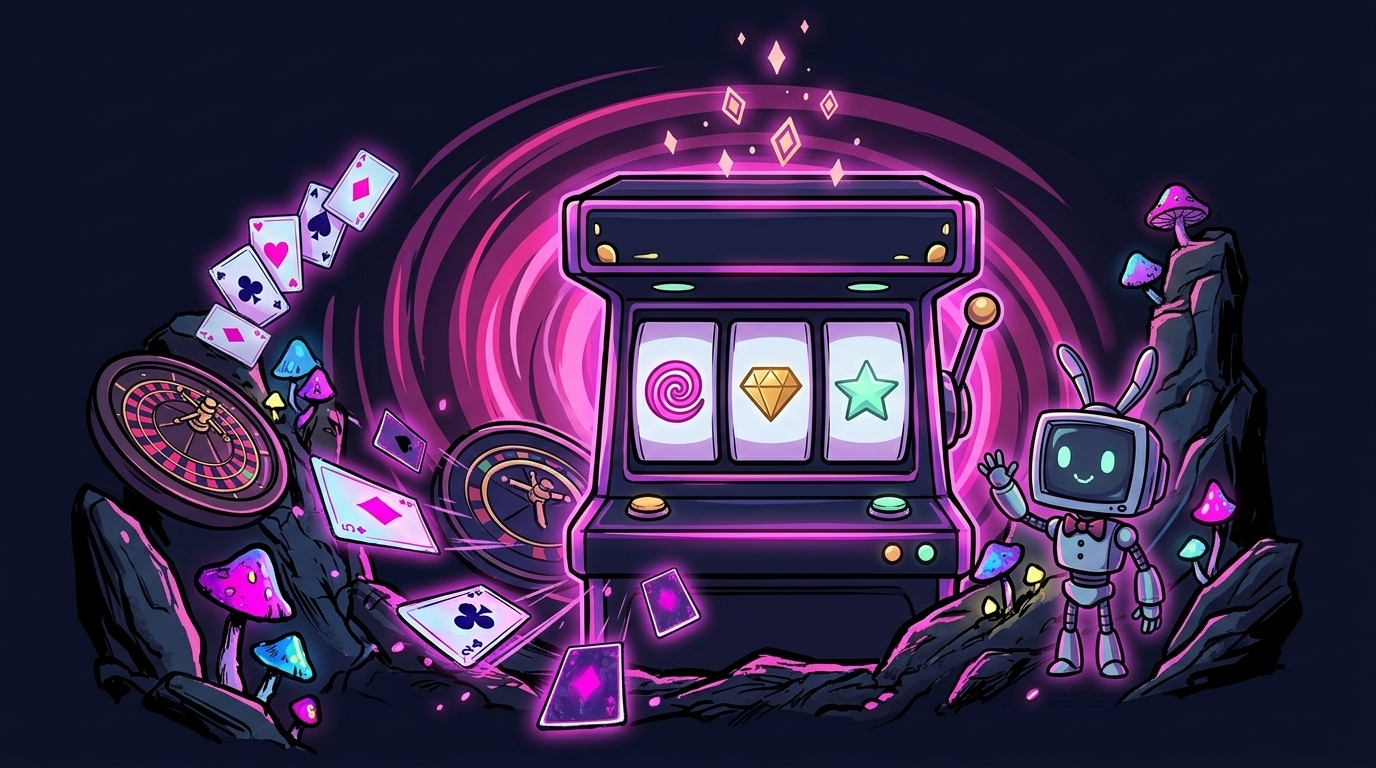
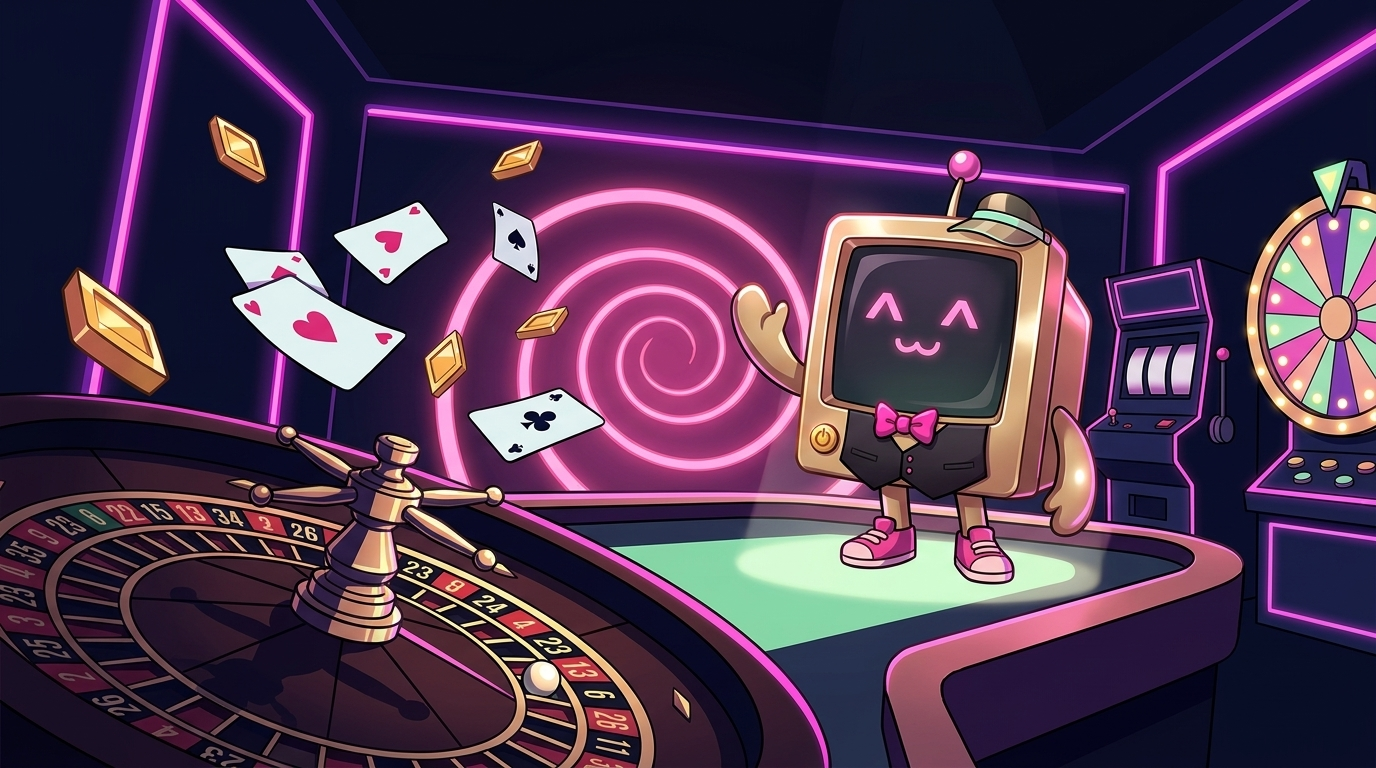
feat(wallet): the croupier EMI on the Sparkle wallet, and the showman card on the Play tab
The dashboard's Sparkle Points wallet drew EMI as a hand-made vector CRT. She is now the
Back Room's golden croupier (gold casing, dealer visor, bow tie, the counter's feather
duster) as a pixel sprite in two layers: the body, and the waving arm hinged at the
shoulder so hover still waves only the arm. Her glass is blank in the sprite and the
EmiFace renderer draws the face over it, the same way the desk and the Arcademy do.

The Play tab's Back Room card art is redrawn with the same croupier EMI: roulette in the
foreground, cards and gold diamonds in the air, the slot cabinet and prize wheel behind.

Both were generated with nano banana off the Arcademy body-idle sprite as the character
reference and keyed by a border-connected flood (no dechecker: the key was pure green).

A render test realizes the wallet on the STA harness and reads the gold casing back, so a
sprite missing from the csproj's Resource list fails the suite instead of
InitializeComponent.

Claude-Session: https://claude.ai/code/session_01BBsRaxDQB1DdjPrTpUwJrg

diff --git a/ConditioningControlPanel/Controls/SparkleWallet.xaml b/ConditioningControlPanel/Controls/SparkleWallet.xaml
@@ -22,30 +22,23 @@
             <Grid>
                 <Grid.ColumnDefinitions><ColumnDefinition Width="50"/><ColumnDefinition Width="*"/></Grid.ColumnDefinitions>
                 <Viewbox Width="48" Height="46" IsHitTestVisible="False">
-                    <!-- EMI stays planted. Only the shoulder hinge moves. -->
-                    <Canvas Width="90" Height="86">
-                        <Path Data="M29,57 L21,66 18,72" Stroke="#D99ECB" StrokeThickness="8" StrokeStartLineCap="Round" StrokeEndLineCap="Round"/>
-                        <Ellipse Canvas.Left="11" Canvas.Top="68" Width="12" Height="10" Fill="#FFE3F4"/>
-                        <Canvas x:Name="WaveArm" Width="90" Height="86">
-                            <Canvas.RenderTransform><RotateTransform x:Name="ArmTurn" CenterX="60" CenterY="56"/></Canvas.RenderTransform>
-                            <Path Data="M60,56 L70,48 73,39" Stroke="#D99ECB" StrokeThickness="8" StrokeStartLineCap="Round" StrokeEndLineCap="Round"/>
-                            <Ellipse Canvas.Left="68" Canvas.Top="28" Width="12" Height="15" Fill="#FFE3F4"/>
-                        </Canvas>
-                        <Path Data="M31,54 L58,54 65,76 Q45,83 25,76 Z" Fill="#41264F" Stroke="#CE94C9" StrokeThickness="2"/>
-                        <Path Data="M32,54 L45,72 58,54 Z" Fill="#FFF0F8"/>
-                        <Path Data="M36,57 L45,61 54,57 54,67 45,63 36,67 Z" Fill="#FF7CBB"/>
-                        <Ellipse Canvas.Left="43" Canvas.Top="68" Width="4" Height="4" Fill="#FFD580"/>
-                        <Path Data="M30,17 L23,7 M57,17 L65,7" Stroke="#D59BCF" StrokeThickness="3" StrokeStartLineCap="Round" StrokeEndLineCap="Round"/>
-                        <Ellipse Canvas.Left="19" Canvas.Top="2" Width="8" Height="8" Fill="#FF8ACB"/>
-                        <Ellipse Canvas.Left="61" Canvas.Top="2" Width="8" Height="8" Fill="#FFD580"/>
-                        <Border Canvas.Left="17" Canvas.Top="14" Width="55" Height="43" CornerRadius="13"
-                                Background="#C990CE" BorderBrush="#FBE0F6" BorderThickness="2">
-                            <Border Margin="5" CornerRadius="8" Background="#181022" BorderBrush="#7A477F" BorderThickness="1">
-                                <emi:EmiFace x:Name="MascotFace" Margin="4,3"/>
-                            </Border>
-                        </Border>
-                        <Path Data="M28,78 L26,83 37,83 M54,78 L55,83 66,83" Stroke="#B281B7" StrokeThickness="5" StrokeStartLineCap="Round" StrokeEndLineCap="Round"/>
-                    </Canvas>
+                    <!-- The croupier EMI from the Back Room's prize counter (gold casing, visor, bow tie,
+                         feather duster), as a pixel sprite split into two layers over a 954x995 canvas:
+                         the body and the waving arm. EMI stays planted, only the arm layer turns, about
+                         its shoulder (the RenderTransformOrigin). Her glass is blank in the sprite so the
+                         EmiFace renderer draws the face, exactly as the desk and the Arcademy do. -->
+                    <Grid Width="954" Height="995">
+                        <Image Source="pack://application:,,,/Resources/emi/wallet_croupier_body.png"
+                               Stretch="Fill" RenderOptions.BitmapScalingMode="HighQuality"/>
+                        <Image x:Name="WaveArm" Source="pack://application:,,,/Resources/emi/wallet_croupier_arm.png"
+                               Stretch="Fill" RenderOptions.BitmapScalingMode="HighQuality"
+                               RenderTransformOrigin="0.848,0.676">
+                            <Image.RenderTransform><RotateTransform x:Name="ArmTurn"/></Image.RenderTransform>
+                        </Image>
+                        <!-- The glass rect, measured off the sprite (302,279 425x385) and inset 18px. -->
+                        <emi:EmiFace x:Name="MascotFace" HorizontalAlignment="Left" VerticalAlignment="Top"
+                                     Margin="320,297,0,0" Width="389" Height="349"/>
+                    </Grid>
                 </Viewbox>
                 <StackPanel Grid.Column="1" VerticalAlignment="Center" Margin="3,0,0,0">
                     <TextBlock x:Name="WalletLabel" TextTrimming="CharacterEllipsis" Foreground="#D9BCD9" FontSize="10"/>

diff --git a/Tests/ConditioningControlPanel.Tests/SparkleWalletRenderTests.cs b/Tests/ConditioningControlPanel.Tests/SparkleWalletRenderTests.cs
@@ -1,0 +1,56 @@
+using System;
+using System.Windows;
+using System.Windows.Controls;
+using System.Windows.Media;
+using System.Windows.Media.Imaging;
+using ConditioningControlPanel.Controls;
+using Xunit;
+
+namespace ConditioningControlPanel.Tests;
+
+/// <summary>
+/// The Sparkle wallet's croupier EMI is two bitmap layers (body + waving arm) referenced by
+/// short-form pack URIs in SparkleWallet.xaml. A sprite missing from the csproj's Resource list
+/// does not fail the build: it throws inside InitializeComponent the first time the dashboard
+/// loads. This suite realizes the control on the shared STA thread and reads the pixels back,
+/// so that failure lands here instead.
+/// </summary>
+public class SparkleWalletRenderTests
+{
+    [Fact]
+    public void Wallet_realizes_and_paints_the_croupier_emi()
+    {
+        Assert.True(PackUriBootstrap.Failure == null, PackUriBootstrap.Failure);
+        WpfRenderHarness.OnStaThread(() =>
+        {
+            var wallet = new SparkleWallet();
+            var host = new Grid { Background = Brushes.Transparent };
+            host.Children.Add(wallet);
+            host.Measure(new Size(196, 48));
+            host.Arrange(new Rect(0, 0, 196, 48));
+            host.UpdateLayout();
+
+            var body = wallet.FindName("WaveArm") as Image;
+            Assert.NotNull(body);
+            Assert.NotNull(body!.Source);
+            Assert.IsType<RotateTransform>(body.RenderTransform);
+
+            var rtb = new RenderTargetBitmap(196, 48, 96, 96, PixelFormats.Pbgra32);
+            rtb.Render(host);
+            var px = new byte[196 * 48 * 4];
+            rtb.CopyPixels(px, 196 * 4, 0);
+
+            // The mascot column is the first 50px. Count opaque pixels whose hue is gold-ish
+            // (red and green well above blue), which only the sprite's casing can supply.
+            int gold = 0;
+            for (int y = 0; y < 48; y++)
+                for (int x = 0; x < 50; x++)
+                {
+                    int i = (y * 196 + x) * 4;
+                    byte b = px[i], g = px[i + 1], r = px[i + 2], a = px[i + 3];
+                    if (a > 200 && r > 120 && g > 90 && r > b + 40 && g > b + 20) gold++;
+                }
+            Assert.True(gold > 150, $"expected the gold croupier casing in the mascot column, found {gold} gold pixels");
+        });
+    }
+}
